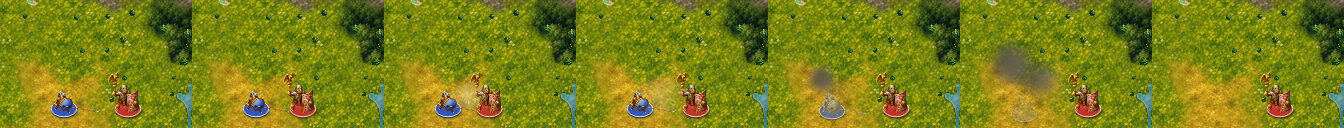
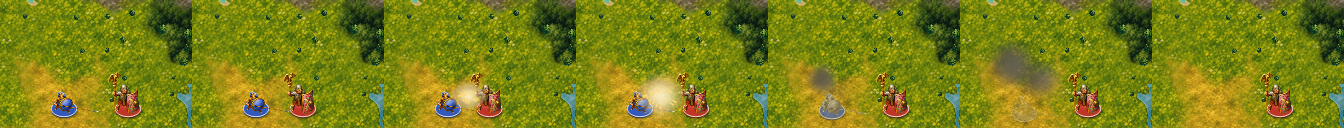
Stone ring for small walled towns, sea battle frames, full in-game review
At sizes 2 to 5 the painted walls are a pixel wide at game size, so a walled
town gets a stone ring with corner towers in the walls' colours. The harness
renders a sea battle too. README adds in-game shots of every town step, small
walled towns and a city capture, and an element-by-element review.

Claude-Session: https://claude.ai/code/session_01GQr8nXbNR6oD4muVyMvrXV

Changed region(s): [[0.4688, 0.5938, 0.5312, 0.9062], [0.3125, 0.6562, 0.375, 0.8438]]

diff --git a/src/Graphics/TopView.cs b/src/Graphics/TopView.cs
@@ -512,7 +512,9 @@ namespace OpenCivOne.Graphics
 				if (!InView(x0, y0))
 					continue;
 
-				SKBitmap? art = this.towns[Step(town.Size), scene.Walls(Wrap(town.X), town.Y) ? 1 : 0] ?? this.towns[Step(town.Size), 0];
+				int step = Step(town.Size);
+				bool walled = scene.Walls(Wrap(town.X), town.Y);
+				SKBitmap? art = this.towns[step, walled ? 1 : 0] ?? this.towns[step, 0];
 				float tx = x0, ty = y0, tw = c * 0.6f, th = c * 0.6f;
 
 				if (art != null)
@@ -522,6 +524,11 @@ namespace OpenCivOne.Graphics
 					tx = MathF.Round(x0 + ((c - tw) / 2));
 					ty = MathF.Round(y0 + ((c - th) / 2));
 					canvas.DrawBitmap(art, tx, ty, image);
+
+					// a small town's painted walls are a pixel wide at game size: a stone ring with corner towers in the
+					// walls' own colours makes them read, as the larger towns' do
+					if (walled && step <= 2)
+						this.DrawSmallWalls(canvas, tx, ty, tw, th);
 				}
 				else
 				{
@@ -617,6 +624,31 @@ namespace OpenCivOne.Graphics
 			System.Runtime.InteropServices.MemoryMarshal.Cast<byte, uint>(target.GetPixelSpan()).CopyTo(result);
 
 			return result;
+		}
+
+		private void DrawSmallWalls(SKCanvas canvas, float x, float y, float w, float h)
+		{
+			float u = this.cell / 64f, inset = 1.2f * u;
+			SKRect ring = new SKRect(x + inset, y + inset + (h * 0.04f), x + w - inset, y + h - inset);
+			float r = MathF.Min(ring.Width, ring.Height) * 0.22f;
+			using SKPaint shadow = new SKPaint { IsAntialias = true, Style = SKPaintStyle.Stroke, StrokeWidth = 2.8f * u, Color = new SKColor(40, 30, 18, 120) };
+			using SKPaint stone = new SKPaint { IsAntialias = true, Style = SKPaintStyle.Stroke, StrokeWidth = 1.6f * u, Color = new SKColor(204, 182, 136) };
+			using SKPaint top = new SKPaint { IsAntialias = true, Style = SKPaintStyle.Stroke, StrokeWidth = 0.6f * u, Color = new SKColor(238, 224, 186, 170) };
+			canvas.DrawRoundRect(new SKRect(ring.Left, ring.Top + (0.8f * u), ring.Right, ring.Bottom + (0.8f * u)), r, r, shadow);
+			canvas.DrawRoundRect(ring, r, r, stone);
+			canvas.DrawRoundRect(new SKRect(ring.Left, ring.Top - (0.4f * u), ring.Right, ring.Bottom - (0.4f * u)), r, r, top);
+
+			using SKPaint tower = new SKPaint { IsAntialias = true, Color = new SKColor(198, 176, 128) };
+			using SKPaint towerShadow = new SKPaint { IsAntialias = true, Color = new SKColor(40, 30, 18, 120) };
+			using SKPaint ink = new SKPaint { IsAntialias = true, Style = SKPaintStyle.Stroke, StrokeWidth = 0.6f * u, Color = new SKColor(60, 44, 28) };
+			float t = 1.8f * u, k = r * 0.3f;
+
+			foreach ((float tx, float ty) in new[] { (ring.Left + k, ring.Top + k), (ring.Right - k, ring.Top + k), (ring.Left + k, ring.Bottom - k), (ring.Right - k, ring.Bottom - k), (ring.MidX, ring.Bottom) })
+			{
+				canvas.DrawCircle(tx, ty + (0.6f * u), t, towerShadow);
+				canvas.DrawCircle(tx, ty, t, tower);
+				canvas.DrawCircle(tx, ty, t, ink);
+			}
 		}
 
 		private void DrawUnit(SKCanvas canvas, UnitArt art, float x0, float y0, uint colour, int marks, bool ring,

diff --git a/tests/HDLayerTests/Program.cs b/tests/HDLayerTests/Program.cs
@@ -1438,7 +1438,7 @@ GBitmap other4()
 		Check(top != null, "top view: loads the theme's painted towns and units");
 		const uint Blue = 0xff3058be, Red = 0xffc03428;
 		var topScene = new IsoView.Scene();
-		var walled = new HashSet<(int, int)> { (3, 7), (10, 5), (16, 4) };
+		var walled = new HashSet<(int, int)> { (3, 7), (10, 5), (16, 4), (5, 6), (18, 5) };
 		foreach (var t in new[] { (6, 4, Blue, "Babylon", 9), (5, 6, Blue, "Ur", 3), (3, 7, Blue, "Thebes", 14), (18, 5, Red, "Kish", 4),
 			(10, 5, Blue, "Mari", 5), (16, 4, Red, "Nineveh", 6), (15, 7, Red, "Assur", 1) })
 			topScene.Cities.Add((t.Item1, t.Item2, t.Item4, t.Item5, t.Item3));
@@ -1494,6 +1494,31 @@ GBitmap other4()
 			top.EndBattle();
 			using var battleFile = File.Create(battleOut);
 			strip.Encode(battleFile, SKEncodedImageFormat.Png, 100);
+
+			// and at sea: a red trireme attacking a blue sailing ship, the attacker losing
+			var seaScene = new IsoView.Scene();
+			seaScene.Units.Add((15, 9, 16, Red));
+			seaScene.Units.Add((14, 9, 17, Blue));
+			top.Render(bcx, bcy, seaScene);
+			using var seaStrip = new SKBitmap(times.Length * 192, 128, SKColorType.Bgra8888, SKAlphaType.Premul);
+			using var seaCanvas = new SKCanvas(seaStrip);
+			for (int f = 0; f < times.Length; f++)
+			{
+				uint[] frame = top.BattleFrame(times[f], (15, 9), (14, 9), false, 5);
+				using var shot = clean.Copy();
+				for (int y = 0; y < shot.Height; y++)
+					for (int x = 0; x < shot.Width; x++)
+					{
+						uint o = frame[(y * shot.Width) + x], a = o >> 24;
+						SKColor g = shot.GetPixel(x, y);
+						uint Mix(uint top8, byte under) => Math.Min(255u, top8 + ((under * (255 - a)) + 127) / 255);
+						shot.SetPixel(x, y, new SKColor((byte)Mix((o >> 16) & 0xff, g.Red), (byte)Mix((o >> 8) & 0xff, g.Green), (byte)Mix(o & 0xff, g.Blue)));
+					}
+				seaCanvas.DrawBitmap(shot, new SKRect(14 * 64 - 32, 9 * 64 - 64, 14 * 64 + 160, 9 * 64 + 64), new SKRect(f * 192, 0, (f + 1) * 192, 128));
+			}
+			top.EndBattle();
+			using var seaFile = File.Create(Path.ChangeExtension(battleOut, null) + "-sea.png");
+			seaStrip.Encode(seaFile, SKEncodedImageFormat.Png, 100);
 		}
 	}
 

diff --git a/themes/gouache/preview/topview/README.md b/themes/gouache/preview/topview/README.md
@@ -34,6 +34,10 @@ The gouache set has nine units and no huts or resources of its own. The other 19
 | `14_ingame_walled_paris_4x.png` | Paris at size 6 with walls: the walled terracotta town. |
 | `15_city_screen_size9_2x.png` | Rome's city screen at size 9: the walled town at the centre of its small map. The size badge is left out there, since the title gives the population and the worked-tile icons would cover it. |
 | `16_after_city_screen.jpg` | Back on the map after closing the city screen, nothing left over from it. |
+| `17_ingame_sizes_2_to_8.jpg` | In game, every step of the ladder between hamlet and city: Rome at 2, 3 (walled) and 7; Babylon at 4, 5 (walled) and 8 (walled). |
+| `18_ingame_small_walled_towns.png` | Small walled towns (sizes 3 and 5) with their stone ring and corner towers. |
+| `19_ingame_babylon_captured.jpg`, `20_ingame_captured_city_screen.jpg` | A Roman legion captures Babylon at size 3: the town keeps its picture and clearing and changes to a white Roman badge at size 2; its city screen shows the nearby Babylonian units in green. |
+| `21_sea_battle_frames_harness.png` | A battle at sea: a red trireme attacks a blue sailing ship and loses, greying and fading under smoke on the water. |
 
 ## Also fixed
 
@@ -47,10 +51,32 @@ The gouache set has nine units and no huts or resources of its own. The other 19
 - **Battles** are painted too: the attacker lunges and falls back, dust and sparks burst where they meet, and the loser greys, sinks and fades under rising smoke. No art files are needed, so they work for any theme with this view.
 - **The city screen's small map** gets the same painted town, foreign units, huts, resources and shields, drawn through a second overlay (`GBitmap.Inset`). The worked-tile icons stay on top, so the size badge is left out there; the title gives the population. Walled towns use the ladder's `_w` pictures, there as on the map.
 
+## Review, element by element
+
+Each element on the map, judged against `compose.py`'s renders and checked in the running game unless noted:
+
+| Element | Verdict |
+| --- | --- |
+| Painted ground, coasts, rivers, moving water | Unchanged painted map; shows between all objects. |
+| Towns, sizes 1 to 13 | Right ladder picture for each size, in a clearing scaled to the town (`17`, `13`). |
+| Walled towns | Walled pictures at every step; at sizes 2 to 5 the painted walls are a pixel wide, so a stone ring with corner towers in the walls' colours is drawn over them (`18`). This is the one place the game draws more than `compose.py` does. |
+| Size badge and name | Same size, place and type as the renders, in each player's colour; white Roman badges read on all grounds. |
+| The nine gouache units | Same scale, anchors and bases as the renders, in all eight player colours. |
+| The other 19 units | Default painted set, toned and sized by kind; they sit on bases like the gouache units (`02`). Their painting is a little crisper than gouache, the one remaining style difference, until gouache versions are painted. |
+| Huts, resources, grassland shield | Painted objects, toned; the shield is small and quiet. |
+| Unit states (active, sentry, fortified, stack, orders) | Painted forms; checked in game for active, fortified and stacks. |
+| Moving units | Slide smoothly between cells. |
+| Battles, land and sea | Painted lunge, dust, smoke and fade (`09` in game; `10`, `21` frame by frame). |
+| City capture | Town, clearing and badge change hands cleanly (`19`). |
+| City screen's small map | Painted town and foreign units under the worked-tile icons; no badge there (`15`, `20`). |
+| Dialogs and menus | Drawn over the map as before; the painted map comes back clean after each. |
+
+Still classic, outside the map: the interface panels, fonts and full-screen pictures (the stand-in data has placeholders for those).
+
 ## Reproducing
 
 ```bash
 TOPVIEW_PREVIEW=out.png TOPVIEW_THEME=themes/gouache/hd TOPVIEW_FALLBACK=assets TOPVIEW_ENGINE=themes/gouache/preview/engine-v8.png dotnet run --project tests/HDLayerTests -c Release
 ```
 
-Add `TOPVIEW_BATTLE=battle.png` for the battle frames. The in-game shots come from a Debug build run under Xvfb with the stand-in data (`HD_SET=hd4 tools/standin/build.sh`) and `themes/gouache/hd` copied to `~/Dos/Civ1/themes/gouache`. The preferences were `{"Theme": "gouache", "Debug": {"DebugMode": true}}`, and extra units were placed in the save with `../ingame/place_units.py` from the `gouache-ingame-shots` branch.
+Add `TOPVIEW_BATTLE=battle.png` for the battle frames (it also writes `battle-sea.png`). The in-game shots come from a Debug build run under Xvfb with the stand-in data (`HD_SET=hd4 tools/standin/build.sh`) and `themes/gouache/hd` copied to `~/Dos/Civ1/themes/gouache`. The preferences were `{"Theme": "gouache", "Debug": {"DebugMode": true}}`, and extra units were placed in the save with `../ingame/place_units.py` from the `gouache-ingame-shots` branch.
